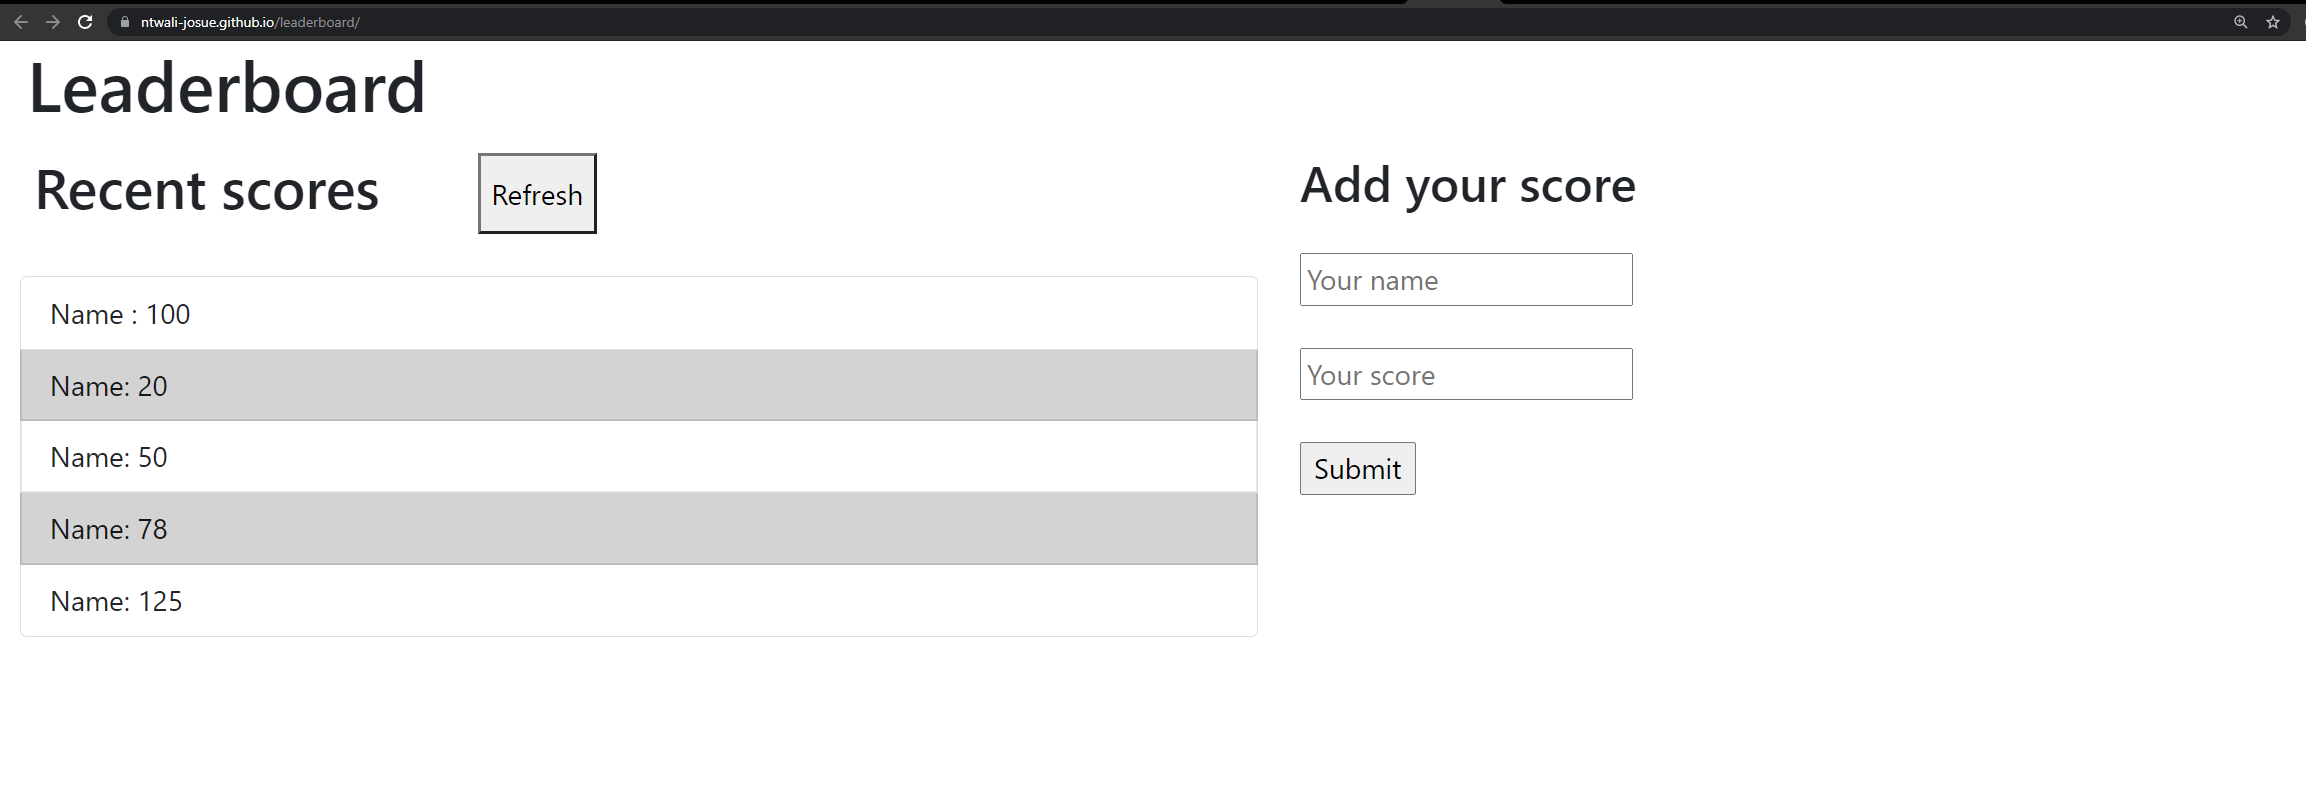
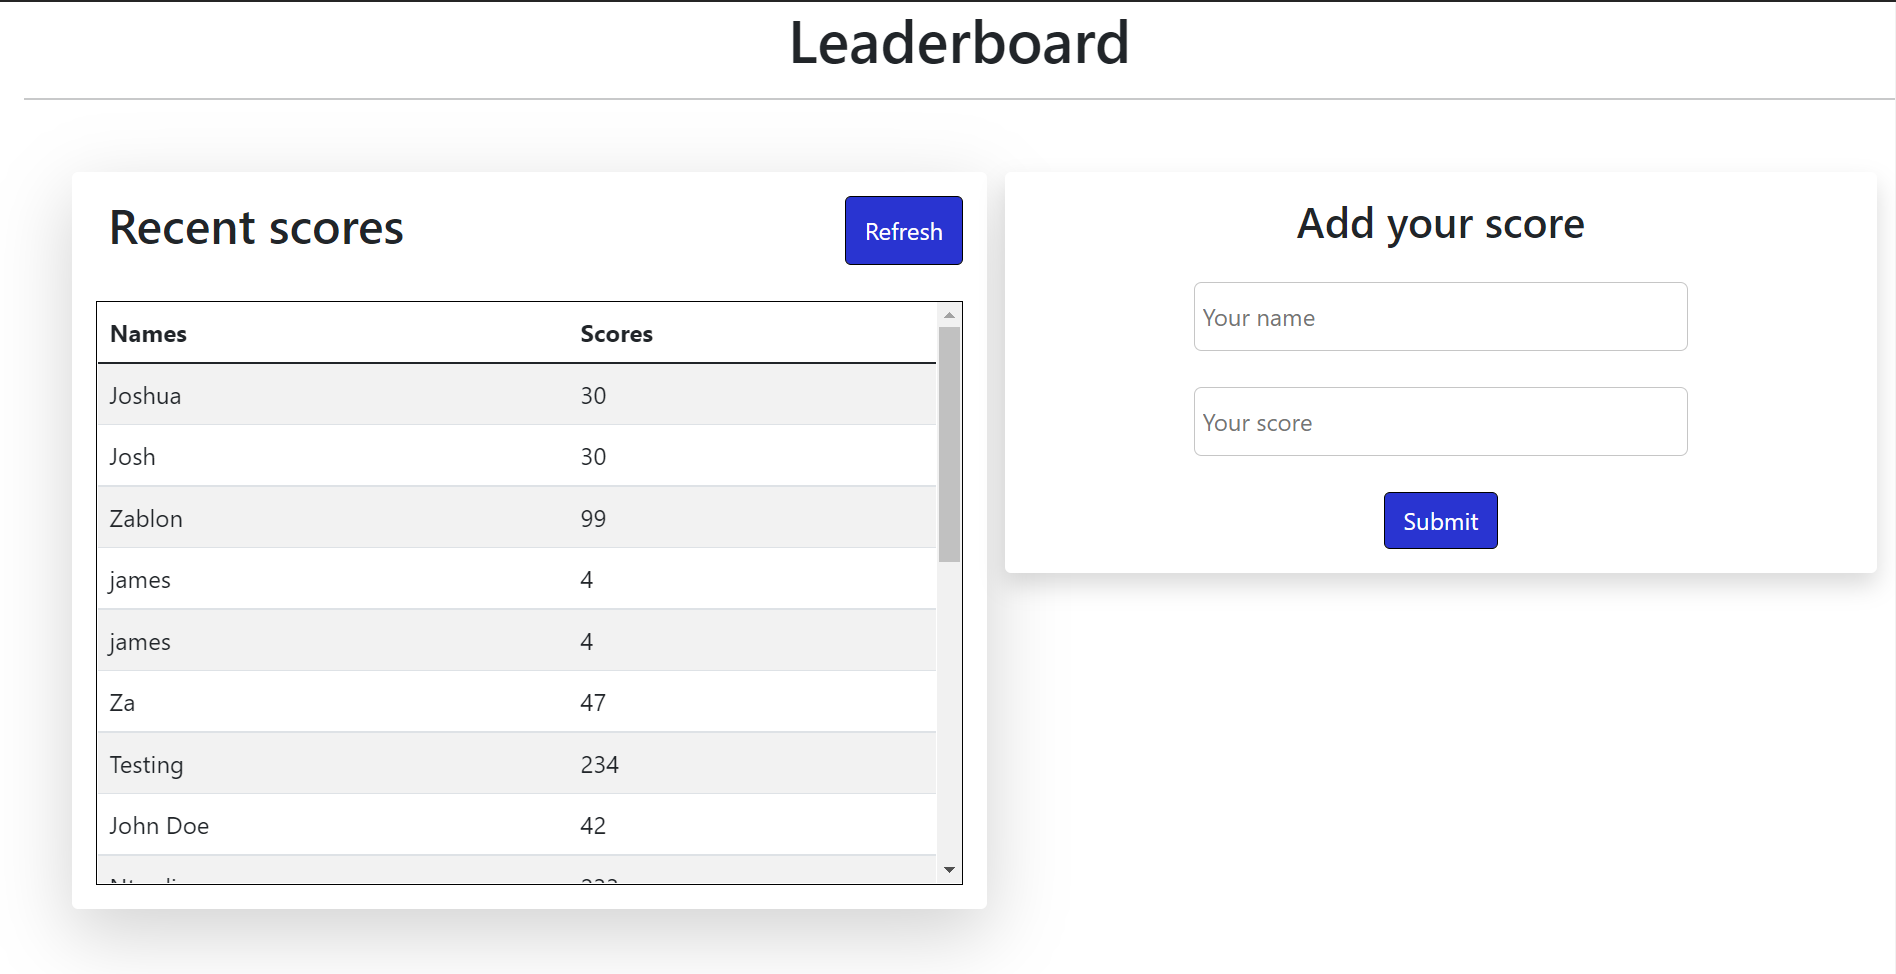
Build, deploy and update the readme screenshot of my repository

diff --git a/dist/main.bundle.js b/dist/main.bundle.js
@@ -16,7 +16,7 @@
   \*************************************************************/
 /***/ ((module, __webpack_exports__, __webpack_require__) => {
 
-eval("__webpack_require__.r(__webpack_exports__);\n/* harmony export */ __webpack_require__.d(__webpack_exports__, {\n/* harmony export */   \"default\": () => (__WEBPACK_DEFAULT_EXPORT__)\n/* harmony export */ });\n/* harmony import */ var _node_modules_css_loader_dist_runtime_api_js__WEBPACK_IMPORTED_MODULE_0__ = __webpack_require__(/*! ../node_modules/css-loader/dist/runtime/api.js */ \"./node_modules/css-loader/dist/runtime/api.js\");\n/* harmony import */ var _node_modules_css_loader_dist_runtime_api_js__WEBPACK_IMPORTED_MODULE_0___default = /*#__PURE__*/__webpack_require__.n(_node_modules_css_loader_dist_runtime_api_js__WEBPACK_IMPORTED_MODULE_0__);\n// Imports\n\nvar ___CSS_LOADER_EXPORT___ = _node_modules_css_loader_dist_runtime_api_js__WEBPACK_IMPORTED_MODULE_0___default()(function(i){return i[1]});\n// Module\n___CSS_LOADER_EXPORT___.push([module.id, \"* {\\r\\n  padding: 0;\\r\\n  margin: 0;\\r\\n}\\r\\n\\r\\n.button {\\r\\n  border: 1px solid #000;\\r\\n  color: #fff;\\r\\n  background-color: #2934d1;\\r\\n}\\r\\n\\r\\ninput {\\r\\n  padding: 5px 5px;\\r\\n  border: 1px solid #c6c6c6;\\r\\n  border-radius: 5px;\\r\\n}\\r\\n\\r\\n.overflow {\\r\\n  overflow: auto;\\r\\n  height: 60vh;\\r\\n  border: 1px #000 solid;\\r\\n}\\r\\n\\r\\n.names,\\r\\n.scores {\\r\\n  width: 50%;\\r\\n}\\r\\n\", \"\"]);\n// Exports\n/* harmony default export */ const __WEBPACK_DEFAULT_EXPORT__ = (___CSS_LOADER_EXPORT___);\n\n\n//# sourceURL=webpack://leaderboard/./src/style.css?./node_modules/css-loader/dist/cjs.js");
+eval("__webpack_require__.r(__webpack_exports__);\n/* harmony export */ __webpack_require__.d(__webpack_exports__, {\n/* harmony export */   \"default\": () => (__WEBPACK_DEFAULT_EXPORT__)\n/* harmony export */ });\n/* harmony import */ var _node_modules_css_loader_dist_runtime_api_js__WEBPACK_IMPORTED_MODULE_0__ = __webpack_require__(/*! ../node_modules/css-loader/dist/runtime/api.js */ \"./node_modules/css-loader/dist/runtime/api.js\");\n/* harmony import */ var _node_modules_css_loader_dist_runtime_api_js__WEBPACK_IMPORTED_MODULE_0___default = /*#__PURE__*/__webpack_require__.n(_node_modules_css_loader_dist_runtime_api_js__WEBPACK_IMPORTED_MODULE_0__);\n// Imports\n\nvar ___CSS_LOADER_EXPORT___ = _node_modules_css_loader_dist_runtime_api_js__WEBPACK_IMPORTED_MODULE_0___default()(function(i){return i[1]});\n// Module\n___CSS_LOADER_EXPORT___.push([module.id, \"* {\\n  padding: 0;\\n  margin: 0;\\n}\\n\\n.button {\\n  border: 1px solid #000;\\n  color: #fff;\\n  background-color: #2934d1;\\n}\\n\\ninput {\\n  padding: 10px 5px;\\n  border: 1px solid #c6c6c6;\\n  border-radius: 5px;\\n}\\n\\n.overflow {\\n  overflow: auto;\\n  height: 60vh;\\n  border: 1px #000 solid;\\n}\\n\\n.names,\\n.scores {\\n  width: 60%;\\n}\\n\", \"\"]);\n// Exports\n/* harmony default export */ const __WEBPACK_DEFAULT_EXPORT__ = (___CSS_LOADER_EXPORT___);\n\n\n//# sourceURL=webpack://leaderboard/./src/style.css?./node_modules/css-loader/dist/cjs.js");
 
 /***/ }),
 
@@ -116,7 +116,7 @@ eval("__webpack_require__.r(__webpack_exports__);\n/* harmony export */ __webpac
   \**********************/
 /***/ ((__unused_webpack_module, __webpack_exports__, __webpack_require__) => {
 
-eval("__webpack_require__.r(__webpack_exports__);\n/* harmony import */ var _style_css__WEBPACK_IMPORTED_MODULE_0__ = __webpack_require__(/*! ./style.css */ \"./src/style.css\");\n/* harmony import */ var _refreshScores__WEBPACK_IMPORTED_MODULE_1__ = __webpack_require__(/*! ./refreshScores */ \"./src/refreshScores.js\");\n/* harmony import */ var _addScores__WEBPACK_IMPORTED_MODULE_2__ = __webpack_require__(/*! ./addScores */ \"./src/addScores.js\");\n\n\n\n\nconst root = document.querySelector('.root');\n\nconst fetchScores = async () => {\n  let results;\n  await fetch(\n    'https://us-central1-js-capstone-backend.cloudfunctions.net/api/games/Dgl1g5JXUz6joOBlRdMy/scores',\n  )\n    .then((response) => response.json())\n    .then((json) => {\n      const tableList = document.querySelector('#scores');\n      for (let i = 0; i < json.result.length; i += 1) {\n        results = json.result[i];\n        const scores = document.createElement('tr');\n        scores.innerHTML += `\n        <tr>\n        <td>${results.user}</td>\n        </tr>\n        <tr>\n        <td>${results.score}</td>\n        </tr>\n      `;\n        tableList.appendChild(scores);\n      }\n    });\n};\n\nconst leaderboardTitle = () => {\n  const leaderboardTitle = document.createElement('h1');\n  leaderboardTitle.innerHTML\n    += '<h1 class=\"mb-5 ms-3 text-center\">Leaderboard</h1>';\n  root.appendChild(leaderboardTitle);\n};\n\nconst leaderboard = () => {\n  const leaderboardSection = document.createElement('section');\n  leaderboardSection.classList.add('d-flex');\n  leaderboardSection.innerHTML += `\n  <div class=\"container justify-content-center shadow-lg p-3 mb-5 ms-5 bg-white rounded\">\n    <div class=\"title d-flex justify-content-between\">\n      <h2 class=\"px-2\">Recent scores</h2>\n      <button type=\"button\" class=\"refresh button btn\">Refresh</button>\n    </div>\n    <div class=\"player-scores mt-4 overflow\">\n      <table class=\"table table-striped\">\n        <thead>\n          <tr>\n            <th scope=\"col\">Names</th>\n            <th scope=\"col\">Scores</th>\n          </tr>\n        </thead>\n        <tbody id=\"scores\"></tbody>\n      </table>\n    </div>\n  </div>\n  <div class=\"container\">\n    <form class=\"shadow p-3 mb-5 bg-white rounded text-center\">\n      <h3 class=\"mb-4\">Add your score</h3>\n      <input type=\"text\" placeholder=\"Your name\" class=\"names\" required/>\n      <br /> <br />\n      <input type=\"number\" placeholder=\"Your score\" class=\"scores\" required/>\n      <br /> <br />\n      <input type=\"submit\" value=\"Submit\" class=\"button submit btn\" />\n    </form>\n  </div>`;\n\n  return root.appendChild(leaderboardSection);\n};\n\nleaderboardTitle();\nleaderboard();\nfetchScores();\n\nconst refreshButton = document.querySelector('.refresh');\nrefreshButton.addEventListener('click', _refreshScores__WEBPACK_IMPORTED_MODULE_1__.default);\n\nconst submitScores = document.querySelector('.submit');\nsubmitScores.addEventListener('click', _addScores__WEBPACK_IMPORTED_MODULE_2__.default);\n\n\n//# sourceURL=webpack://leaderboard/./src/index.js?");
+eval("__webpack_require__.r(__webpack_exports__);\n/* harmony import */ var _style_css__WEBPACK_IMPORTED_MODULE_0__ = __webpack_require__(/*! ./style.css */ \"./src/style.css\");\n/* harmony import */ var _refreshScores__WEBPACK_IMPORTED_MODULE_1__ = __webpack_require__(/*! ./refreshScores */ \"./src/refreshScores.js\");\n/* harmony import */ var _addScores__WEBPACK_IMPORTED_MODULE_2__ = __webpack_require__(/*! ./addScores */ \"./src/addScores.js\");\n\r\n\r\n\r\n\r\nconst root = document.querySelector('.root');\r\n\r\nconst fetchScores = async () => {\r\n  let results;\r\n  await fetch(\r\n    'https://us-central1-js-capstone-backend.cloudfunctions.net/api/games/Dgl1g5JXUz6joOBlRdMy/scores',\r\n  )\r\n    .then((response) => response.json())\r\n    .then((json) => {\r\n      const tableList = document.querySelector('#scores');\r\n      for (let i = 0; i < json.result.length; i += 1) {\r\n        results = json.result[i];\r\n        const scores = document.createElement('tr');\r\n        scores.innerHTML += `\r\n        <tr>\r\n        <td>${results.user}</td>\r\n        </tr>\r\n        <tr>\r\n        <td>${results.score}</td>\r\n        </tr>\r\n      `;\r\n        tableList.appendChild(scores);\r\n      }\r\n    });\r\n};\r\n\r\nconst leaderboardTitle = () => {\r\n  const leaderboardTitle = document.createElement('h1');\r\n  leaderboardTitle.innerHTML\r\n    += '<h1 class=\"mb-5 ms-3 text-center\">Leaderboard <hr></h1>';\r\n  root.appendChild(leaderboardTitle);\r\n};\r\n\r\nconst leaderboard = () => {\r\n  const leaderboardSection = document.createElement('section');\r\n  leaderboardSection.classList.add('d-flex');\r\n  leaderboardSection.innerHTML += `\r\n  <div class=\"container justify-content-center shadow-lg p-3 mb-5 ms-5 bg-white rounded\">\r\n    <div class=\"title d-flex justify-content-between\">\r\n      <h2 class=\"px-2\">Recent scores</h2>\r\n      <button type=\"button\" class=\"refresh button btn\">Refresh</button>\r\n    </div>\r\n    <div class=\"player-scores mt-4 overflow\">\r\n      <table class=\"table table-striped\">\r\n        <thead>\r\n          <tr>\r\n            <th scope=\"col\">Names</th>\r\n            <th scope=\"col\">Scores</th>\r\n          </tr>\r\n        </thead>\r\n        <tbody id=\"scores\"></tbody>\r\n      </table>\r\n    </div>\r\n  </div>\r\n  <div class=\"container\">\r\n    <form class=\"shadow p-3 mb-5 bg-white rounded text-center\">\r\n      <h3 class=\"mb-4\">Add your score</h3>\r\n      <input type=\"text\" placeholder=\"Your name\" class=\"names\" required/>\r\n      <br /> <br />\r\n      <input type=\"number\" placeholder=\"Your score\" class=\"scores\" required/>\r\n      <br /> <br />\r\n      <input type=\"submit\" value=\"Submit\" class=\"button submit btn\" />\r\n    </form>\r\n  </div>`;\r\n\r\n  return root.appendChild(leaderboardSection);\r\n};\r\n\r\nleaderboardTitle();\r\nleaderboard();\r\nfetchScores();\r\n\r\nconst refreshButton = document.querySelector('.refresh');\r\nrefreshButton.addEventListener('click', _refreshScores__WEBPACK_IMPORTED_MODULE_1__.default);\r\n\r\nconst submitScores = document.querySelector('.submit');\r\nsubmitScores.addEventListener('click', _addScores__WEBPACK_IMPORTED_MODULE_2__.default);\n\n//# sourceURL=webpack://leaderboard/./src/index.js?");
 
 /***/ }),
 

diff --git a/dist/index.html b/dist/index.html
@@ -10,6 +10,7 @@
       integrity="sha384-KyZXEAg3QhqLMpG8r+8fhAXLRk2vvoC2f3B09zVXn8CA5QIVfZOJ3BCsw2P0p/We"
       crossorigin="anonymous"
     />
+    <link id="dark-theme-style" rel="stylesheet" />
     <title>Leaderboard</title>
   <script defer src="main.bundle.js"></script></head>
   <body>
